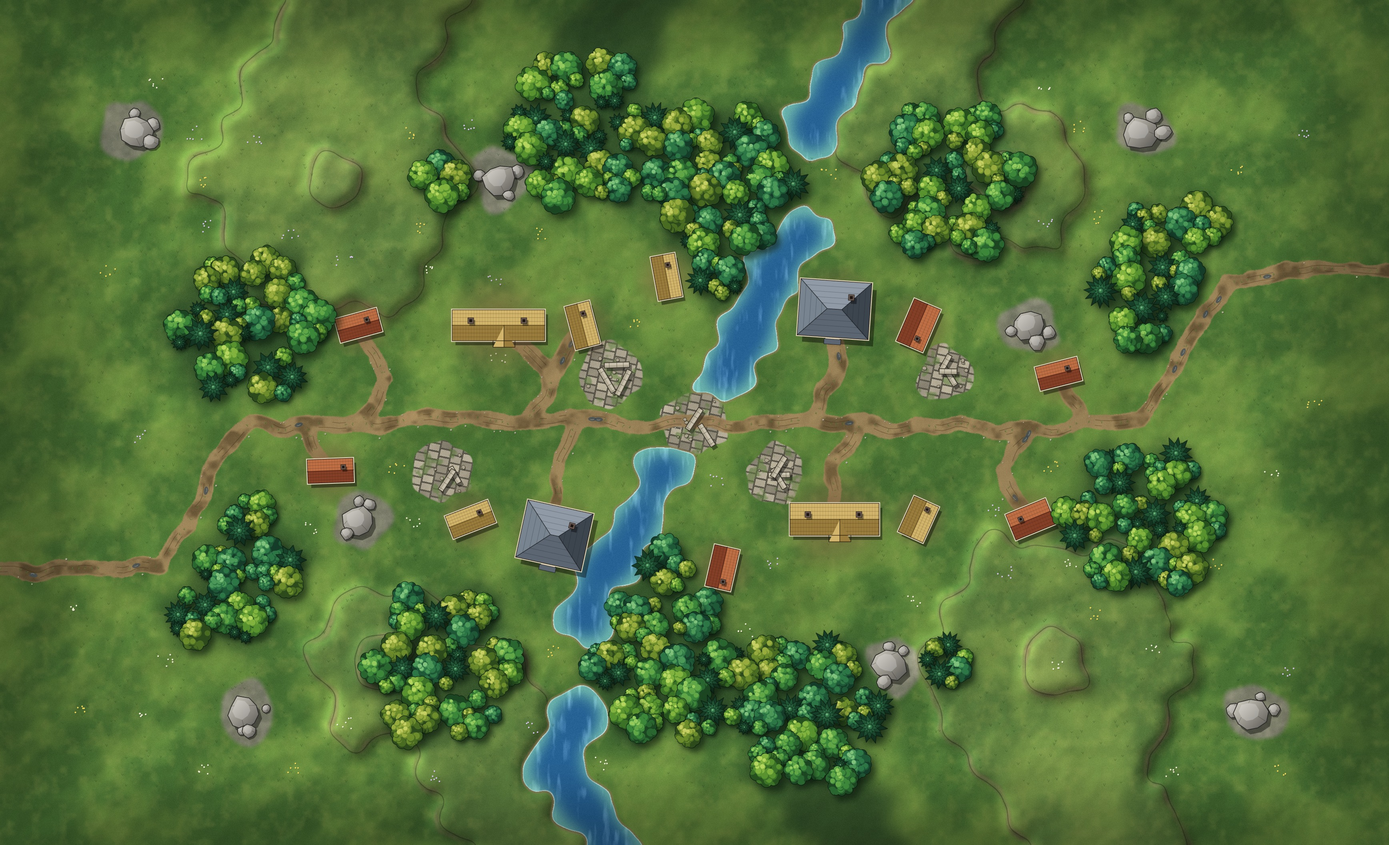
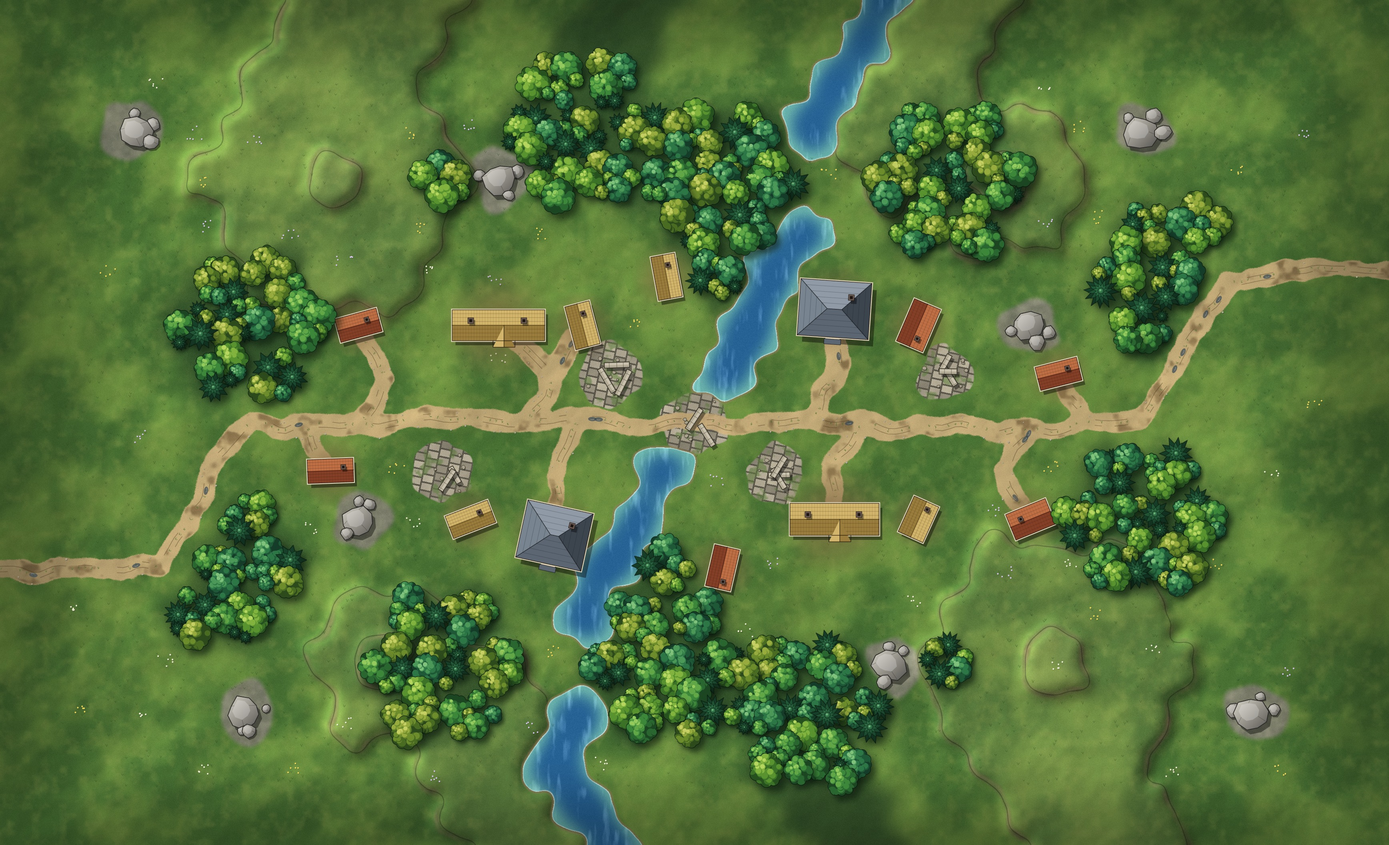
Make roads wider and paler

Changed region(s): [[0.0, 0.2812, 1.0, 0.6875]]

diff --git a/src/paint.js b/src/paint.js
@@ -259,7 +259,7 @@ export function paintBackdrop(map, { hexPx = 140, seed = 7, biome = 'meadow' } =
     rx.fillStyle = '#000'; rx.fillRect(0, 0, lw, lh);
     rx.strokeStyle = '#fff'; rx.lineCap = 'round';
     for (const pts of roadLines) for (let i = 1; i < pts.length; i++) {
-      rx.lineWidth = Math.max(1.5, (s * 0.4 * (pts[i - 1][2] + pts[i][2]) / 2) / L);
+      rx.lineWidth = Math.max(1.5, (s * 0.52 * (pts[i - 1][2] + pts[i][2]) / 2) / L);
       rx.beginPath(); rx.moveTo(pts[i - 1][0] / L, pts[i - 1][1] / L); rx.lineTo(pts[i][0] / L, pts[i][1] / L); rx.stroke();
     }
     const img = rx.getImageData(0, 0, lw, lh).data;
@@ -361,9 +361,9 @@ export function paintBackdrop(map, { hexPx = 140, seed = 7, biome = 'meadow' } =
       if (road > 0.03) {
         t = sstep(0.34, 0.6, road + (n2 - 0.5) * 0.55 + (hash(X, Y, seed + 41) - 0.5) * 0.16);
         if (t > 0) {
-          const mud = sstep(0.4, 0.75, fbm(X / (s * 0.45), Y / (s * 0.45), seed + 42, 3)) * sstep(0.5, 0.9, road);
-          const e0 = snow ? [186, 194, 206] : desert ? [226, 200, 154] : cave ? [96, 88, 80] : [158, 130, 90];
-          const e1 = snow ? [140, 150, 168] : desert ? [188, 158, 114] : cave ? [62, 56, 52] : [108, 86, 56];
+          const mud = sstep(0.56, 0.8, fbm(X / (s * 0.45), Y / (s * 0.45), seed + 42, 3)) * sstep(0.5, 0.9, road) * 0.8;
+          const e0 = snow ? [176, 186, 202] : desert ? [238, 216, 172] : cave ? [118, 108, 96] : [198, 170, 122];
+          const e1 = snow ? [136, 148, 168] : desert ? [196, 166, 120] : cave ? [70, 64, 58] : [126, 100, 66];
           const k = t * 0.94;
           r += (e0[0] + (e1[0] - e0[0]) * mud - r) * k; g += (e0[1] + (e1[1] - e0[1]) * mud - g) * k; bl += (e0[2] + (e1[2] - e0[2]) * mud - bl) * k;
         }
